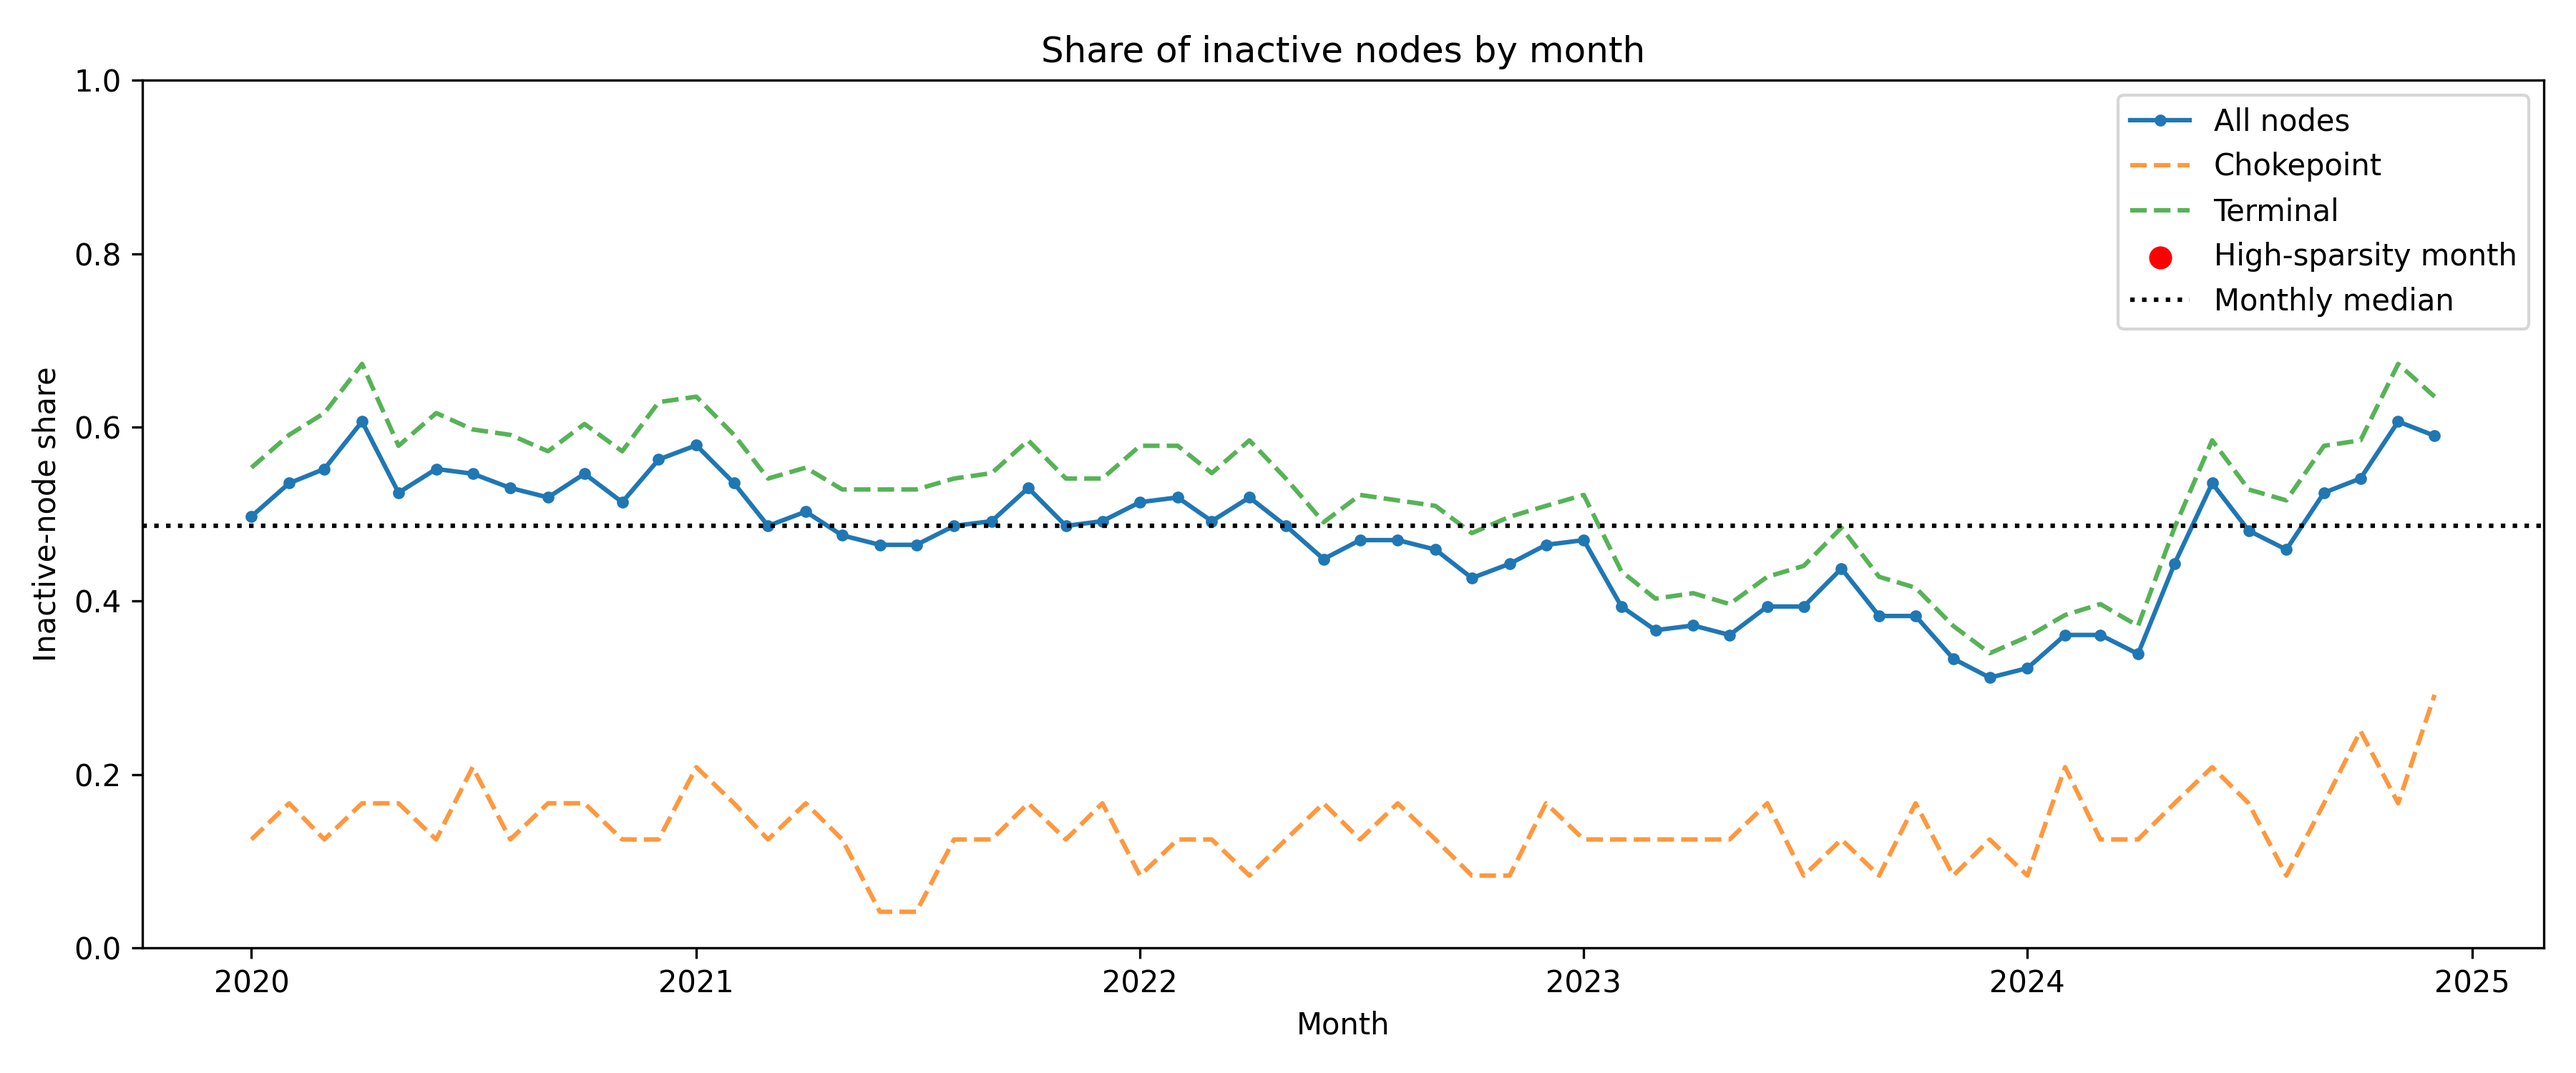
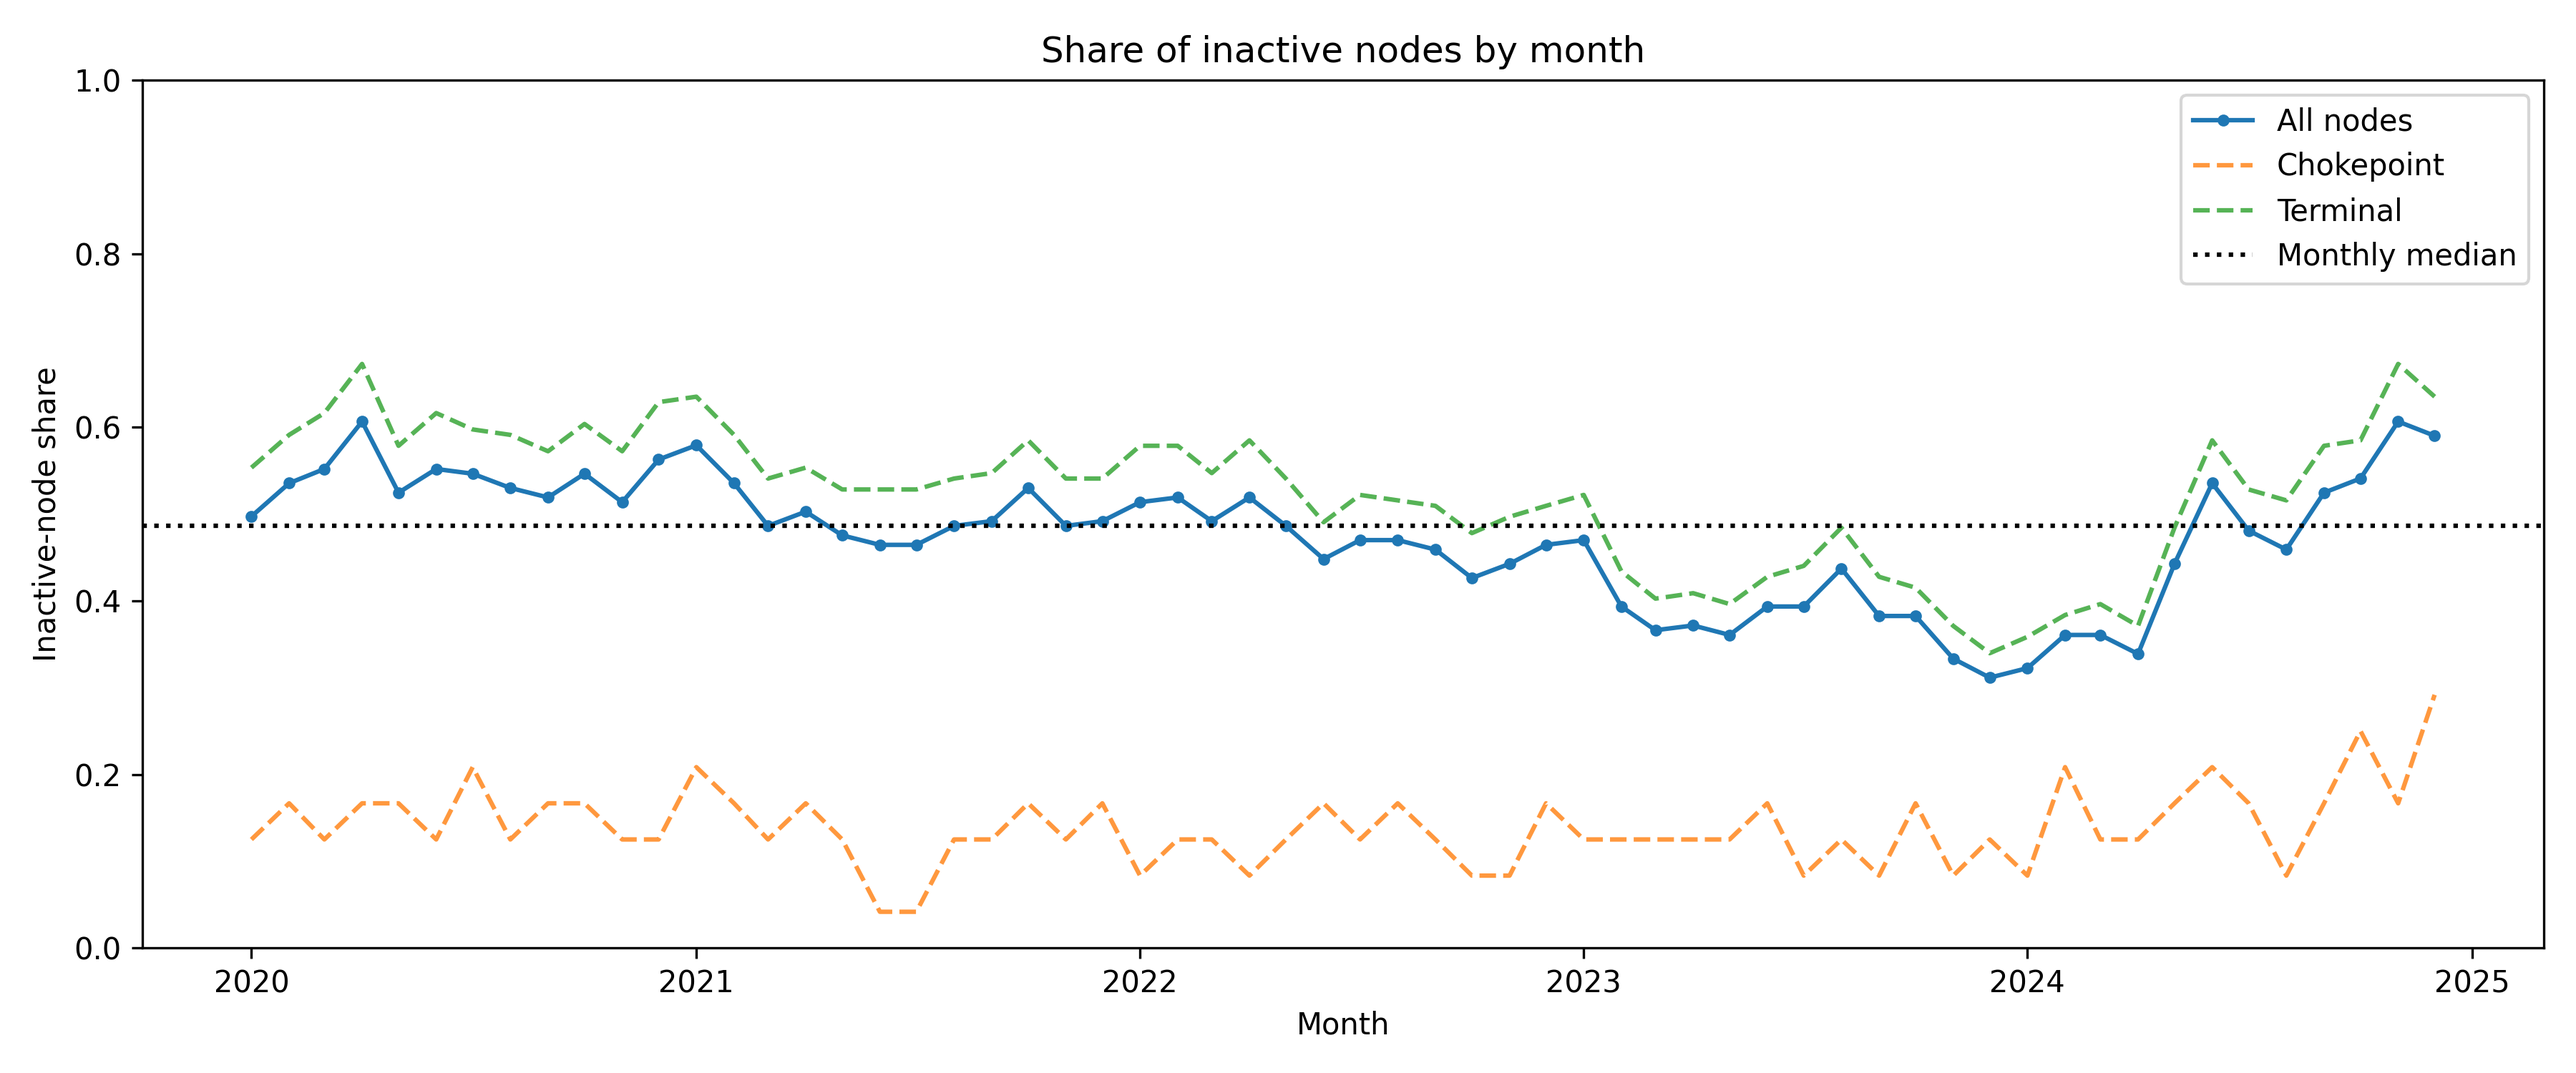
remove high sparsity months flag from graph

Changed region(s): [[0.8089, 0.092, 0.9644, 0.3067]]

diff --git a/scripts/analysis/node_month_analysis.py b/scripts/analysis/node_month_analysis.py
@@ -1430,17 +1430,6 @@ def analyze_temporal_sparsity(node_month):
             label=column.replace("inactive_share_", "").title(),
         )
 
-    flagged = monthly[monthly["high_sparsity_flag"]]
-
-    ax.scatter(
-        flagged["period_month"],
-        flagged["inactive_share"],
-        color="red",
-        s=45,
-        label="High-sparsity month",
-        zorder=5,
-    )
-
     ax.axhline(
         median_sparsity,
         color="black",
